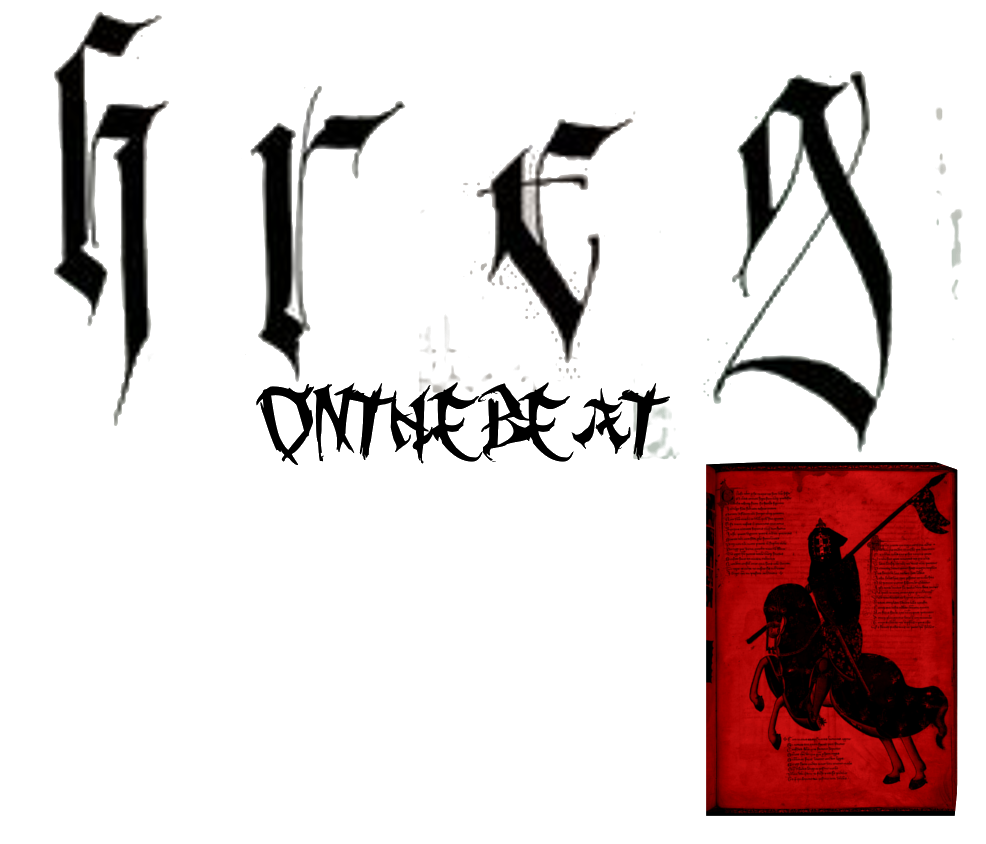
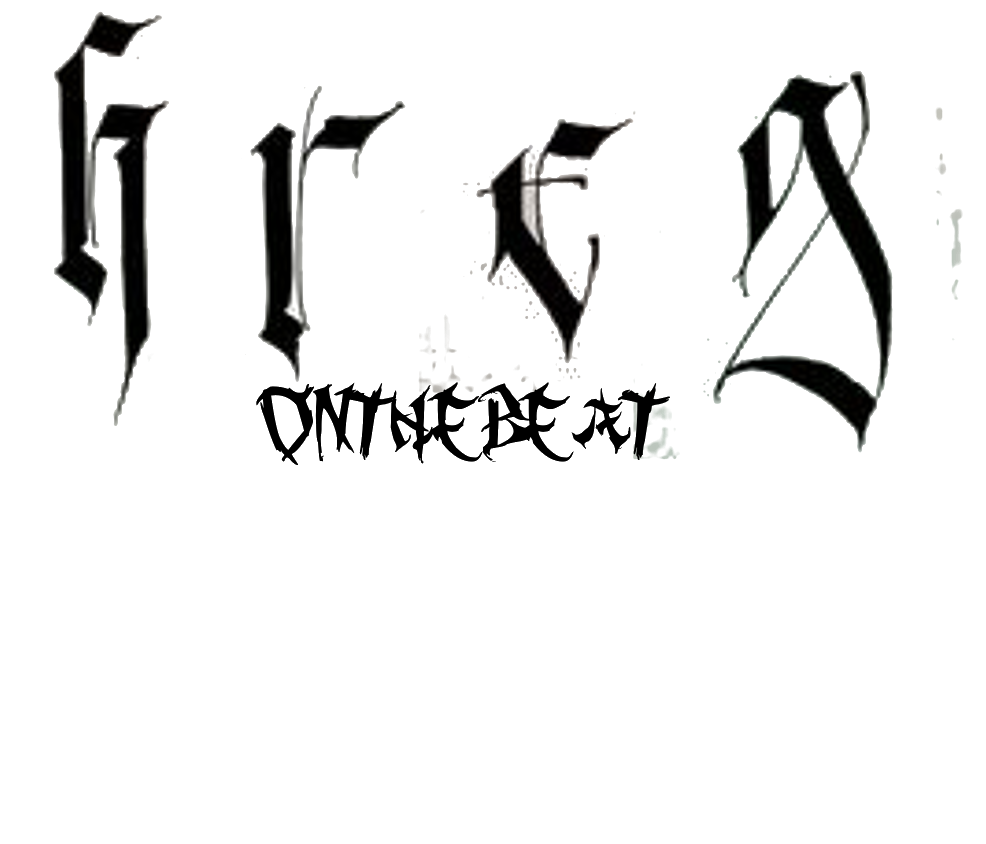
Double Parallax

Changed region(s): [[0.6998, 0.5237, 0.9736, 0.9858]]

diff --git a/gotbCSS.css b/gotbCSS.css
@@ -3,7 +3,20 @@
 	display:none;
 	height: 30em;
 	width: 40em;
-	margin-top: 9em;
+	margin-top: 8em;
+	position:absolute;
+	margin-left: auto;
+	margin-right: auto;
+	left: 0;
+	right: 0;
+}
+
+#redbook {
+	display:block;
+	display:none;
+	height: 14em;
+	width: 40em;
+	margin-top: 24.5em;
 	position:absolute;
 	margin-left: auto;
 	margin-right: auto;
@@ -62,7 +75,18 @@ body {
 	background-position:top;
 	background-repeat: no-repeat;
 	background-size:cover;
+	background-image:url(back.png);
 	
 }
 
+#blackbackground {
+	opacity:0.5;
+	position:fixed;
+    width:100%;
+    height:100%;
+    top:0px;
+    left:0px;
+    z-index:1000;
+}
+	
 

diff --git a/index.html b/index.html
@@ -8,9 +8,15 @@
 <script src="gotbJS.js" type="text/javascript"></script>
 </head>
 
-<body bgcolor="#000000" background="back.png">
+<body bgcolor="#000000">
+	<div>
+    	<img src="ack.png" id="blackbackground" />
+    </div>
 	<div> 
     	<img id="logo" src="gregonbeat.png" alt="Greg on the Beat" />
+    </div>
+    <div> 
+    	<img id="redbook" src="redbook.png" alt="Red Book" />
     </div>
    	<center><img id="twitter" class="fade" src="twitter.png" alt="Twitter"/></center>
     <center><img id="soundcloud" class="fade" src="soundcloud.png" alt="Soundcloud"/></center>

diff --git a/gotbJS.js b/gotbJS.js
@@ -23,9 +23,11 @@ $(window).bind('scroll', function(){
 		function parallaxScroll(){
 			var scrolledY = $(window).scrollTop();
 			$('#logo').css('top','-' + ((scrolledY*1.3)) + 'px');
+			$('#redbook').css('top','-' + ((scrolledY*0.9)) + 'px');
 		}
 
-$('#logo').fadeIn(3000);
+$('#logo, #redbook').fadeIn(3000);
+
 
 
 });
